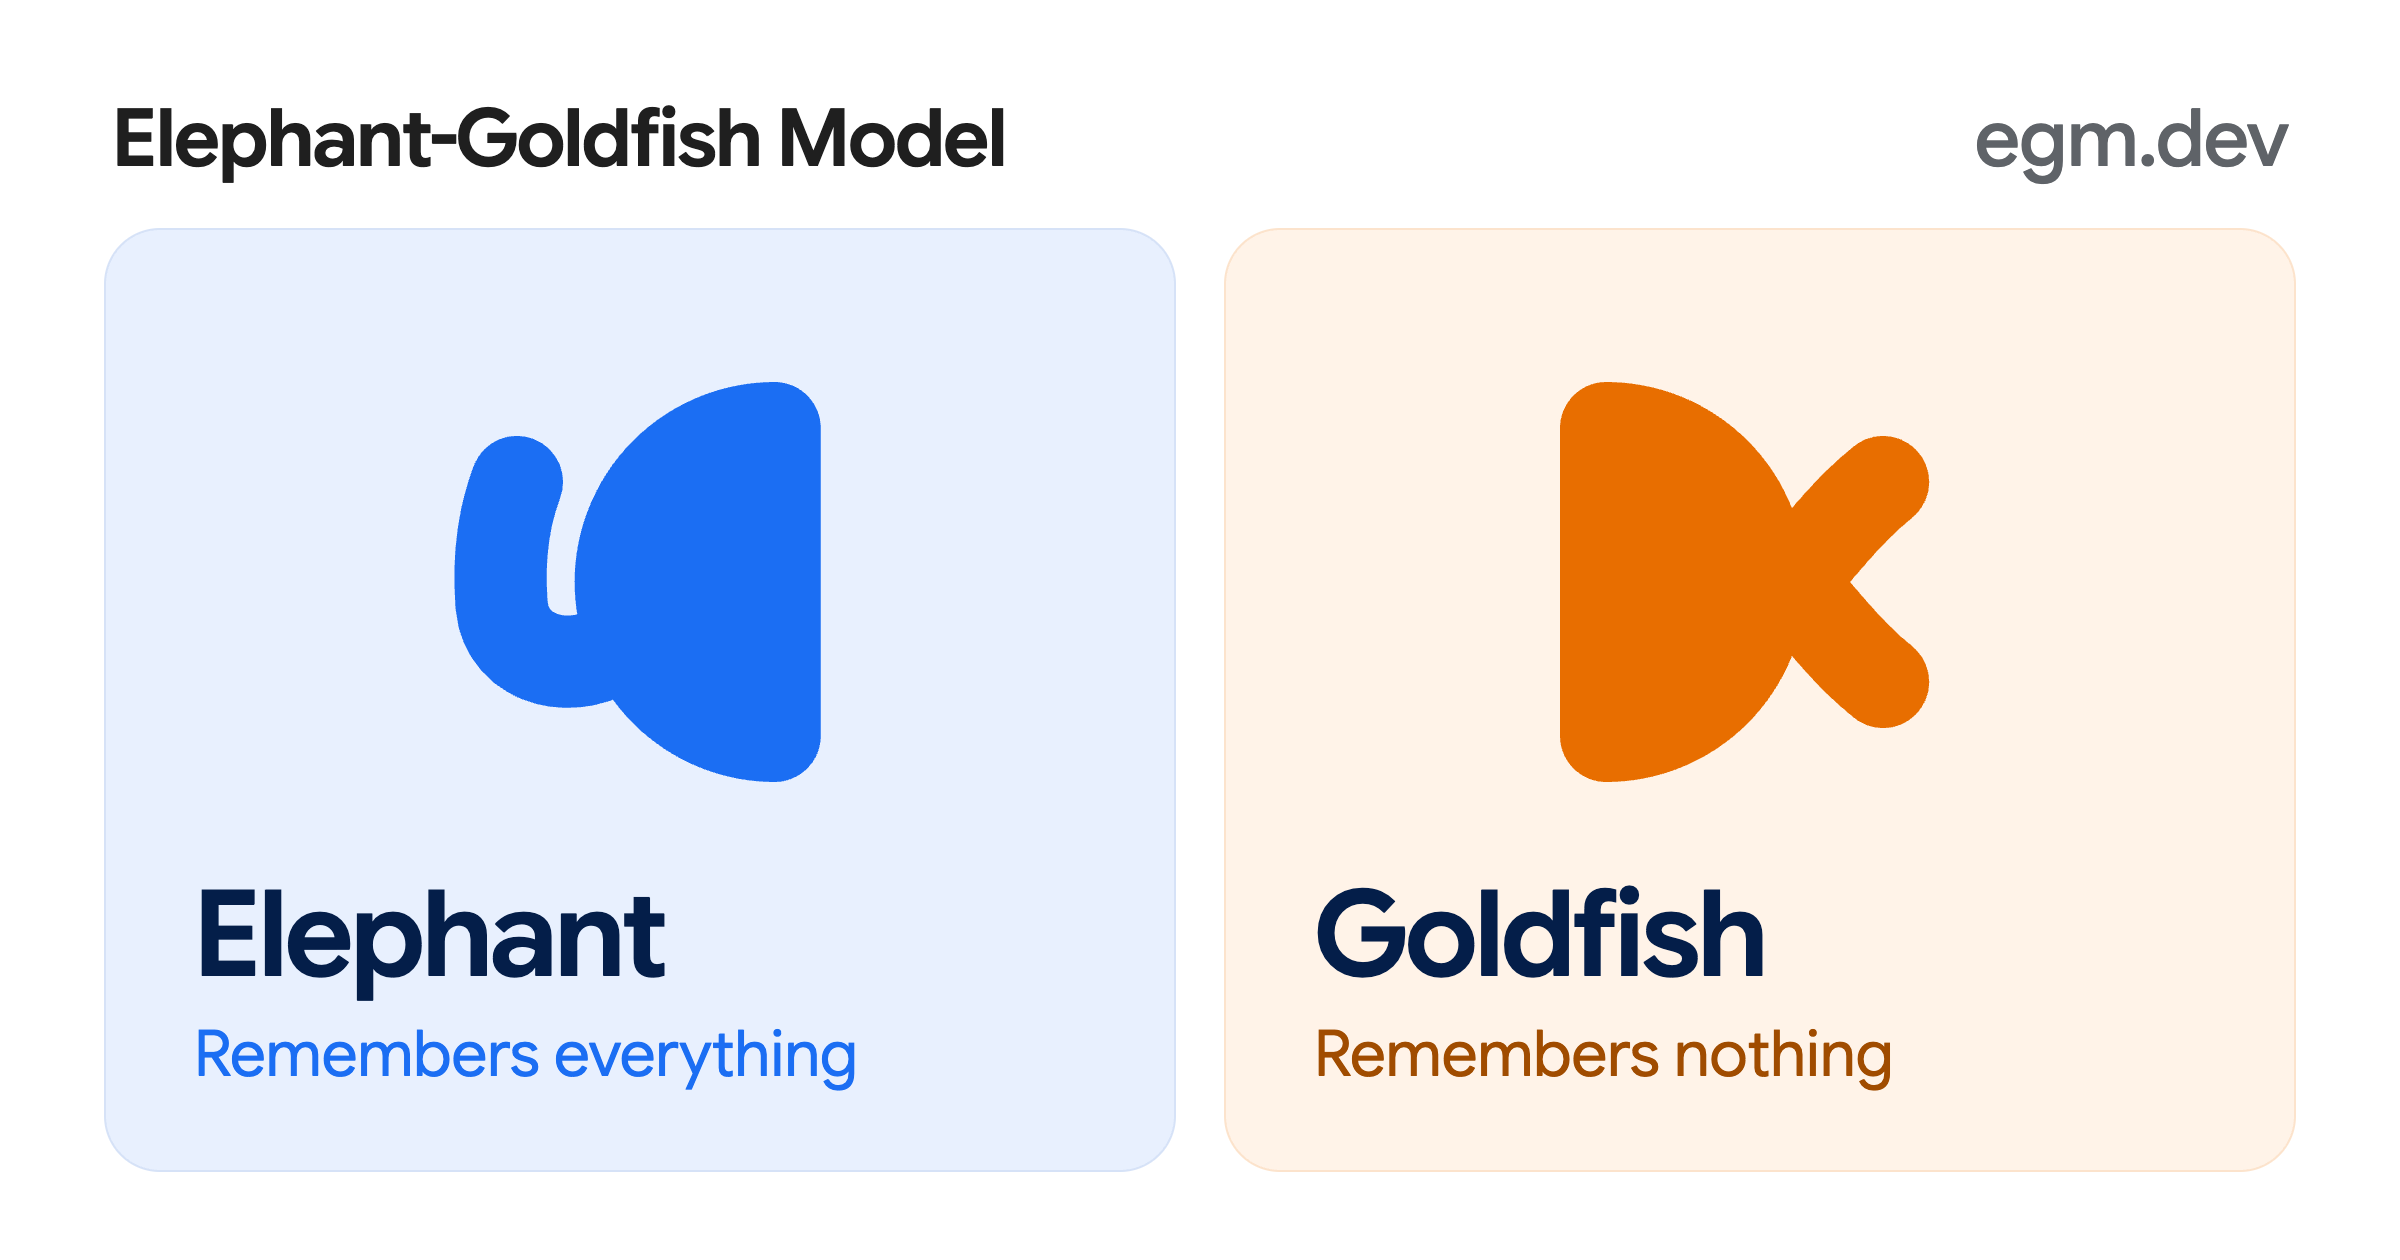
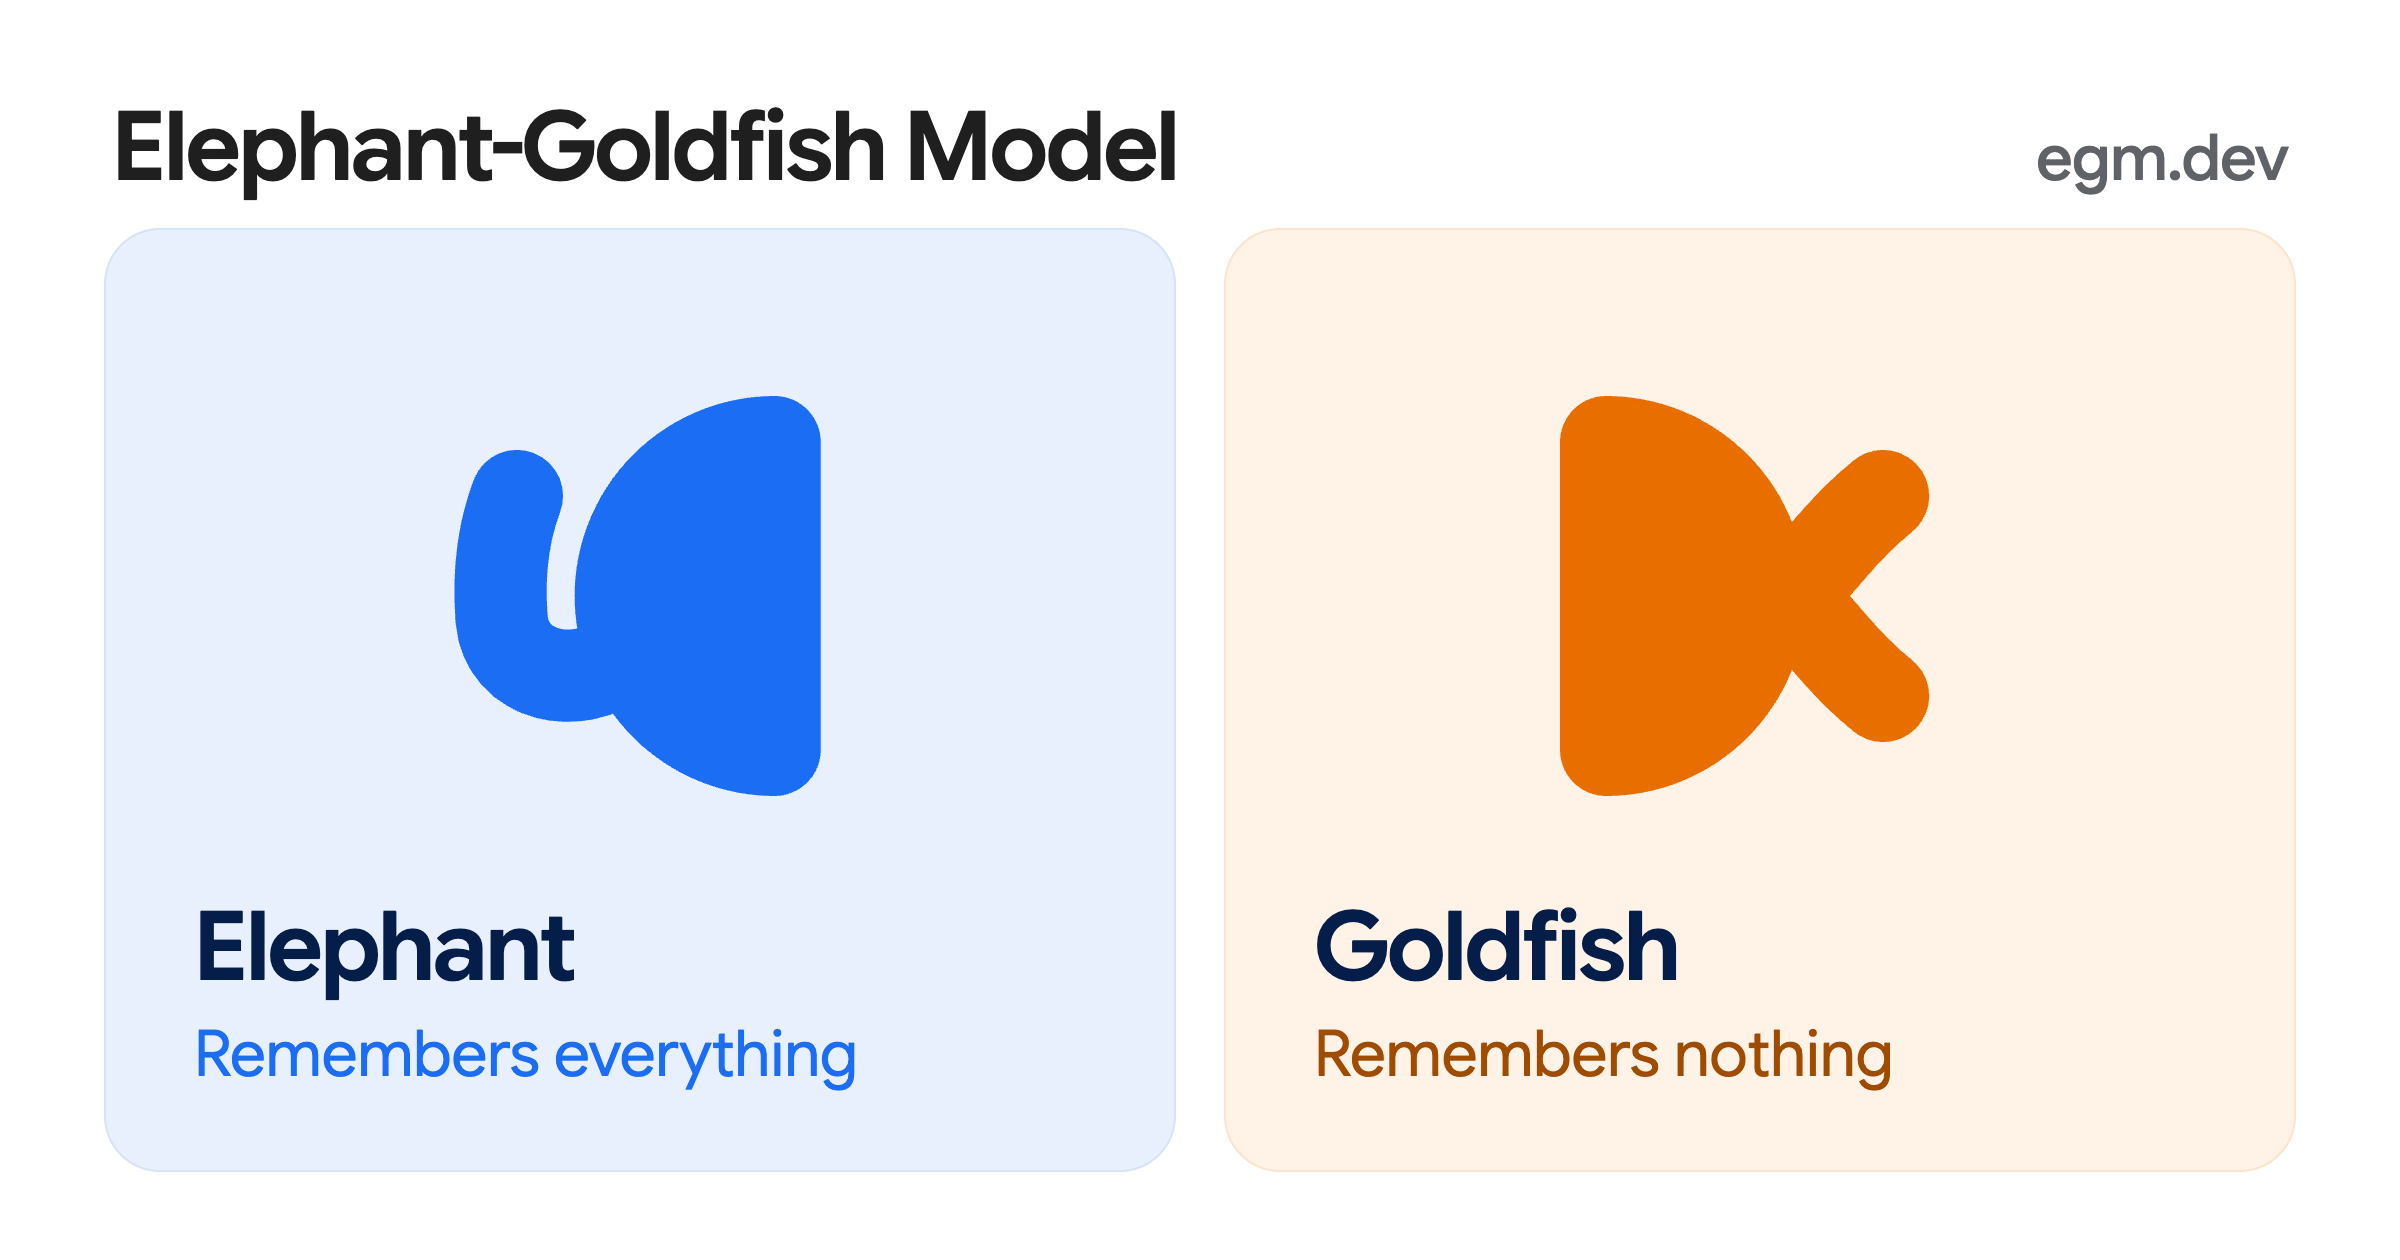
site: og.png uses two type sizes
Brand and card names share 48px; egm.dev and captions share 32px.

diff --git a/site/scripts/og.html b/site/scripts/og.html
@@ -52,13 +52,13 @@ limitations under the License.
         padding: 0 4px;
       }
       .brand {
-        font-size: 40px;
+        font-size: 48px;
         font-weight: 600;
         letter-spacing: -0.02em;
         color: var(--md-sys-color-on-surface);
       }
       .domain {
-        font-size: 40px;
+        font-size: 32px;
         font-weight: 500;
         color: var(--md-sys-color-on-surface-variant);
         letter-spacing: -0.01em;
@@ -97,7 +97,7 @@ limitations under the License.
         gap: 6px;
       }
       .name {
-        font-size: 60px;
+        font-size: 48px;
         font-weight: 600;
         letter-spacing: -0.02em;
         color: #041e49;
